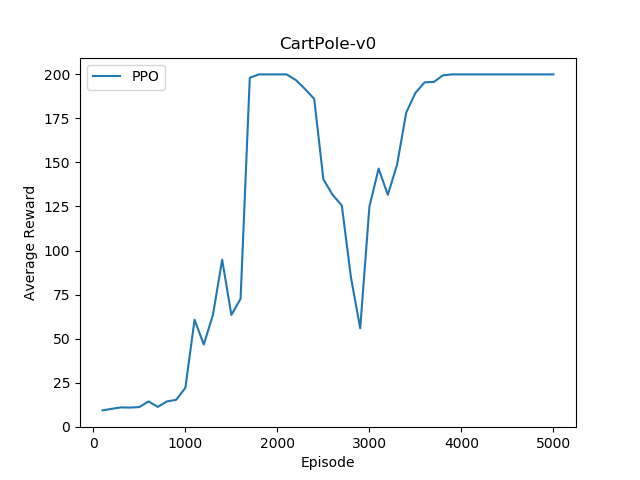
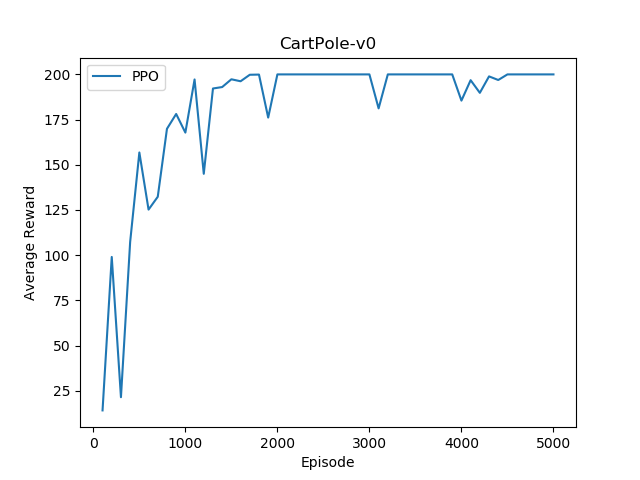
update

diff --git a/MAA2C.py b/MAA2C.py
@@ -5,42 +5,61 @@ from torch.optim import Adam, RMSprop
 
 import numpy as np
 
-from A2C import A2C
+from common.Agent import Agent
 from common.Model import ActorNetwork, CriticNetwork
 from common.utils import entropy, index_to_one_hot, to_tensor_var
 
 
-class MAA2C(A2C):
+class MAA2C(Agent):
     """
     An multi-agent learned with Advantage Actor-Critic
     - Actor takes its local observations as input
     - agent interact with environment to collect experience
     - agent training with experience to update policy
 
+    Parameters
     - training_strategy:
         - cocurrent
             - each agent learns its own individual policy which is independent
             - multiple policies are optimized simultaneously
-        - centralized
-            - centralized training of decentralized actors
-            - centralized critic takes both state and action from all agents as input
-            - each actor has its own critic for estimating the value function, which allows
-                each actor has different reward structure, e.g., cooperative, competitive,
-                mixed cooperative-competitive
+        - centralized (see MADDPG in [1] for details)
+            - centralized training and decentralized execution
+            - decentralized actor map it's local observations to action using individual policy
+            - centralized critic takes both state and action from all agents as input, each actor
+                has its own critic for estimating the value function, which allows each actor has
+                different reward structure, e.g., cooperative, competitive, mixed task
+    - actor_parameter_sharing:
+        - True: all actors share a single policy which enables parameters and experiences sharing,
+            this is mostly useful where the agents are homogeneous. Please see Sec. 4.3 in [2] and
+            Sec. 4.1 & 4.2 in [3] for details.
+        - False: each actor use independent policy
+    - critic_parameter_sharing:
+        - True: all actors share a single critic which enables parameters and experiences sharing,
+            this is mostly useful where the agents are homogeneous and reward sharing holds. Please
+            see Sec. 4.1 in [3] for details.
+        - False: each actor use independent critic (though each critic can take other agents actions
+            as input, see MADDPG in [1] for details)
+
+    Reference:
+    [1] Multi-Agent Actor-Critic for Mixed Cooperative-Competitive Environments
+    [2] Cooperative Multi-Agent Control Using Deep Reinforcement Learning
+    [3] Parameter Sharing Deep Deterministic Policy Gradient for Cooperative Multi-agent Reinforcement Learning
+
     """
     def __init__(self, env, n_agents, state_dim, action_dim,
                  memory_capacity=10000, max_steps=None,
                  roll_out_n_steps=10,
                  reward_gamma=0.99, reward_scale=1., done_penalty=None,
                  actor_hidden_size=32, critic_hidden_size=32,
-                 actor_output_act=nn.functional.softmax, critic_loss="mse",
+                 actor_output_act=nn.functional.log_softmax, critic_loss="mse",
                  actor_lr=0.001, critic_lr=0.001,
                  optimizer_type="rmsprop", entropy_reg=0.01,
                  max_grad_norm=0.5, batch_size=100, episodes_before_train=100,
                  epsilon_start=0.9, epsilon_end=0.01, epsilon_decay=200,
-                 use_cuda=True, training_strategy="cocurrent"):
+                 use_cuda=True, training_strategy="cocurrent",
+                 actor_parameter_sharing=False, critic_parameter_sharing=False):
         super(MAA2C, self).__init__(env, state_dim, action_dim,
-                 memory_capacity, max_steps, roll_out_n_steps,
+                 memory_capacity, max_steps,
                  reward_gamma, reward_scale, done_penalty,
                  actor_hidden_size, critic_hidden_size,
                  actor_output_act, critic_loss,
@@ -53,7 +72,10 @@ class MAA2C(A2C):
         assert training_strategy in ["cocurrent", "centralized"]
 
         self.n_agents = n_agents
+        self.roll_out_n_steps = roll_out_n_steps
         self.training_strategy = training_strategy
+        self.actor_parameter_sharing = actor_parameter_sharing
+        self.critic_parameter_sharing = critic_parameter_sharing
 
         self.actors = [ActorNetwork(self.state_dim, self.actor_hidden_size, self.action_dim, self.actor_output_act)] * self.n_agents
         if self.training_strategy == "cocurrent":
@@ -68,6 +90,17 @@ class MAA2C(A2C):
         elif optimizer_type == "rmsprop":
             self.actor_optimizers = [RMSprop(a.parameters(), lr=self.actor_lr) for a in self.actors]
             self.critic_optimizers = [RMSprop(c.parameters(), lr=self.critic_lr) for c in self.critics]
+
+        # tricky and memory consumed implementation of parameter sharing
+        if self.actor_parameter_sharing:
+            for agent_id in range(1, self.n_agents):
+                self.actors[agent_id] = self.actors[0]
+                self.actor_optimizers[agent_id] = self.actor_optimizers[0]
+        if self.critic_parameter_sharing:
+            for agent_id in range(1, self.n_agents):
+                self.critics[agent_id] = self.critics[0]
+                self.critic_optimizers[agent_id] = self.critic_optimizers[0]
+
         if self.use_cuda:
             for a in self.actors:
                 a.cuda()
@@ -87,15 +120,16 @@ class MAA2C(A2C):
             states.append(self.env_state)
             action = self.exploration_action(self.env_state)
             next_state, reward, done, _ = self.env.step(action)
+            done = done[0]
             actions.append([index_to_one_hot(a, self.action_dim) for a in action])
             rewards.append(reward)
             final_state = next_state
             self.env_state = next_state
-            if done[0]:
+            if done:
                 self.env_state = self.env.reset()
                 break
         # discount reward
-        if done[0]:
+        if done:
             final_r = [0.0] * self.n_agents
             self.n_episodes += 1
             self.episode_done = True
@@ -127,15 +161,15 @@ class MAA2C(A2C):
         for agent_id in range(self.n_agents):
             # update actor network
             self.actor_optimizers[agent_id].zero_grad()
-            softmax_actions = self.actors[agent_id](states_var[:,agent_id,:])
+            action_log_probs = self.actors[agent_id](states_var[:,agent_id,:])
+            entropy_loss = th.mean(entropy(th.exp(action_log_probs)))
+            action_log_probs = th.sum(action_log_probs * actions_var[:,agent_id,:], 1)
             if self.training_strategy == "cocurrent":
-                values = self.critics[agent_id](states_var[:,agent_id,:], actions_var[:,agent_id,:]).detach()
+                values = self.critics[agent_id](states_var[:,agent_id,:], actions_var[:,agent_id,:])
             elif self.training_strategy == "centralized":
-                values = self.critics[agent_id](whole_states_var, whole_actions_var).detach()
-            advantages = rewards_var[:,agent_id,:] - values
-            neg_logloss = - th.sum(softmax_actions * actions_var[:,agent_id,:], 1)
-            pg_loss = th.mean(neg_logloss * advantages)
-            entropy_loss = th.mean(entropy(softmax_actions))
+                values = self.critics[agent_id](whole_states_var, whole_actions_var)
+            advantages = rewards_var[:,agent_id,:] - values.detach()
+            pg_loss = -th.mean(action_log_probs * advantages)
             actor_loss = pg_loss - entropy_loss * self.entropy_reg
             actor_loss.backward()
             if self.max_grad_norm is not None:
@@ -145,10 +179,6 @@ class MAA2C(A2C):
             # update critic network
             self.critic_optimizers[agent_id].zero_grad()
             target_values = rewards_var[:,agent_id,:]
-            if self.training_strategy == "cocurrent":
-                values = self.critics[agent_id](states_var[:,agent_id,:], actions_var[:,agent_id,:])
-            elif self.training_strategy == "centralized":
-                values = self.critics[agent_id](whole_states_var, whole_actions_var)
             if self.critic_loss == "huber":
                 critic_loss = nn.functional.smooth_l1_loss(values, target_values)
             else:
@@ -163,7 +193,7 @@ class MAA2C(A2C):
         state_var = to_tensor_var([state], self.use_cuda)
         softmax_action = np.zeros((self.n_agents, self.action_dim), dtype=np.float64)
         for agent_id in range(self.n_agents):
-            softmax_action_var = self.actors[agent_id](state_var[:,agent_id,:])
+            softmax_action_var = th.exp(self.actors[agent_id](state_var[:,agent_id,:]))
             if self.use_cuda:
                 softmax_action[agent_id] = softmax_action_var.data.cpu().numpy()[0]
             else:

diff --git a/A2C.py b/A2C.py
@@ -75,8 +75,8 @@ class A2C(Agent):
         action_log_probs = self.actor(states_var)
         entropy_loss = th.mean(entropy(th.exp(action_log_probs)))
         action_log_probs = th.sum(action_log_probs * actions_var, 1)
-        values = self.critic(states_var, actions_var).detach()
-        advantages = rewards_var - values
+        values = self.critic(states_var, actions_var)
+        advantages = rewards_var - values.detach()
         pg_loss = -th.mean(action_log_probs * advantages)
         actor_loss = pg_loss - entropy_loss * self.entropy_reg
         actor_loss.backward()
@@ -87,7 +87,6 @@ class A2C(Agent):
         # update critic network
         self.critic_optimizer.zero_grad()
         target_values = rewards_var
-        values = self.critic(states_var, actions_var)
         if self.critic_loss == "huber":
             critic_loss = nn.functional.smooth_l1_loss(values, target_values)
         else:
@@ -107,7 +106,7 @@ class A2C(Agent):
             softmax_action = softmax_action_var.data.numpy()[0]
         return softmax_action
 
-    # choice an action based on state with random noise added for exploration in training
+    # choose an action based on state with random noise added for exploration in training
     def exploration_action(self, state):
         softmax_action = self._softmax_action(state)
         epsilon = self.epsilon_end + (self.epsilon_start - self.epsilon_end) * \
@@ -118,7 +117,7 @@ class A2C(Agent):
             action = np.argmax(softmax_action)
         return action
 
-    # choice an action based on state for execution
+    # choose an action based on state for execution
     def action(self, state):
         softmax_action = self._softmax_action(state)
         action = np.argmax(softmax_action)
@@ -127,7 +126,7 @@ class A2C(Agent):
     # evaluate value for a state-action pair
     def value(self, state, action):
         state_var = to_tensor_var([state], self.use_cuda)
-        action = index_to_one_hot([action], self.action_dim).flatten()
+        action = index_to_one_hot(action, self.action_dim)
         action_var = to_tensor_var([action], self.use_cuda)
         value_var = self.critic(state_var, action_var)
         if self.use_cuda:

diff --git a/common/Agent.py b/common/Agent.py
@@ -16,9 +16,9 @@ class Agent(object):
         - _discount_reward: discount roll out rewards
     - train: train on a sample batch
         - _soft_update_target: soft update the target network
-    - exploration_action: choice an action based on state with random noise
+    - exploration_action: choose an action based on state with random noise
                             added for exploration in training
-    - action: choice an action based on state for execution
+    - action: choose an action based on state for execution
     - value: evaluate value for a state-action pair
     - evaluation: evaluation a learned agent
     """
@@ -146,11 +146,11 @@ class Agent(object):
     def train(self):
         pass
 
-    # choice an action based on state with random noise added for exploration in training
+    # choose an action based on state with random noise added for exploration in training
     def exploration_action(self, state):
         pass
 
-    # choice an action based on state for execution
+    # choose an action based on state for execution
     def action(self, state):
         pass
 
@@ -168,11 +168,13 @@ class Agent(object):
             state = env.reset()
             action = self.action(state)
             state, reward, done, info = env.step(action)
+            done = done[0] if isinstance(done, list) else done
             rewards_i.append(reward)
             infos_i.append(info)
             while not done:
                 action = self.action(state)
                 state, reward, done, info = env.step(action)
+                done = done[0] if isinstance(done, list) else done
                 rewards_i.append(reward)
                 infos_i.append(info)
             rewards.append(rewards_i)

diff --git a/PPO.py b/PPO.py
@@ -131,7 +131,7 @@ class PPO(Agent):
             softmax_action = softmax_action_var.data.numpy()[0]
         return softmax_action
 
-    # choice an action based on state with random noise added for exploration in training
+    # choose an action based on state with random noise added for exploration in training
     def exploration_action(self, state):
         softmax_action = self._softmax_action(state)
         epsilon = self.epsilon_end + (self.epsilon_start - self.epsilon_end) * \
@@ -142,7 +142,7 @@ class PPO(Agent):
             action = np.argmax(softmax_action)
         return action
 
-    # choice an action based on state for execution
+    # choose an action based on state for execution
     def action(self, state):
         softmax_action = self._softmax_action(state)
         action = np.argmax(softmax_action)
@@ -151,7 +151,7 @@ class PPO(Agent):
     # evaluate value for a state-action pair
     def value(self, state, action):
         state_var = to_tensor_var([state], self.use_cuda)
-        action = index_to_one_hot([action], self.action_dim).flatten()
+        action = index_to_one_hot(action, self.action_dim)
         action_var = to_tensor_var([action], self.use_cuda)
         value_var = self.critic(state_var, action_var)
         if self.use_cuda:

diff --git a/DQN.py b/DQN.py
@@ -83,7 +83,7 @@ class DQN(Agent):
             nn.utils.clip_grad_norm(self.actor.parameters(), self.max_grad_norm)
         self.actor_optimizer.step()
 
-    # choice an action based on state with random noise added for exploration in training
+    # choose an action based on state with random noise added for exploration in training
     def exploration_action(self, state):
         epsilon = self.epsilon_end + (self.epsilon_start - self.epsilon_end) * \
                                   np.exp(-1. * self.n_steps / self.epsilon_decay)
@@ -93,7 +93,7 @@ class DQN(Agent):
             action = self.action(state)
         return action
 
-    # choice an action based on state for execution
+    # choose an action based on state for execution
     def action(self, state):
         state_var = to_tensor_var([state], self.use_cuda)
         state_action_value_var = self.actor(state_var)

diff --git a/DDPG.py b/DDPG.py
@@ -114,7 +114,7 @@ class DDPG(Agent):
             super(DDPG, self)._soft_update_target(self.critic_target, self.critic)
             super(DDPG, self)._soft_update_target(self.actor_target, self.actor)
 
-    # choice an action based on state with random noise added for exploration in training
+    # choose an action based on state with random noise added for exploration in training
     def exploration_action(self, state):
         action = self.action(state)
         epsilon = self.epsilon_end + (self.epsilon_start - self.epsilon_end) * \
@@ -124,7 +124,7 @@ class DDPG(Agent):
         action += noise
         return action
 
-    # choice an action based on state for execution
+    # choose an action based on state for execution
     def action(self, state):
         action_var = self.actor(to_tensor_var([state], self.use_cuda))
         if self.use_cuda:

diff --git a/common/utils.py b/common/utils.py
@@ -12,9 +12,17 @@ def entropy(p):
     return -th.sum(p * th.log(p), 1)
 
 
+def kl_log_probs(log_p1, log_p2):
+    return -th.sum(th.exp(log_p1)*(log_p2 - log_p1), 1)
+
+
 def index_to_one_hot(index, dim):
-    one_hot = np.zeros((len(index), dim))
-    one_hot[np.arange(len(index)), index] = 1.
+    if isinstance(index, np.int) or isinstance(index, np.int64):
+        one_hot = np.zeros(dim)
+        one_hot[index] = 1.
+    else:
+        one_hot = np.zeros((len(index), dim))
+        one_hot[np.arange(len(index)), index] = 1.
     return one_hot
 
 

diff --git a/run_ddpg.py b/run_ddpg.py
@@ -74,6 +74,7 @@ def run(env_id="Pendulum-v0"):
 
     plt.figure()
     plt.plot(episodes, eval_rewards)
+    plt.title("%s" % env_id)
     plt.xlabel("Episode")
     plt.ylabel("Average Reward")
     plt.legend(["DDPG"])

diff --git a/run_ppo.py b/run_ppo.py
@@ -9,7 +9,7 @@ import matplotlib.pyplot as plt
 
 
 MAX_EPISODES = 5000
-EPISODES_BEFORE_TRAIN = 100
+EPISODES_BEFORE_TRAIN = 0
 EVAL_EPISODES = 10
 EVAL_INTERVAL = 100
 

diff --git a/README.md b/README.md
@@ -11,8 +11,8 @@ This project includes PyTorch implementations of various Deep Reinforcement Lear
 It is written in a modular way to allow for sharing code between different algorithms. In specific, each algorithm is represented as a learning agent with a unified interface including the following components:
 - [ ] interact: interact with the environment to collect experience. Taking one step forward and n steps forward are both supported (see `_take_one_step_` and `_take_n_steps`, respectively)
 - [ ] train: train on a sample batch
-- [ ] exploration_action: choice an action based on state with random noise added for exploration in training
-- [ ] action: choice an action based on state for execution
+- [ ] exploration_action: choose an action based on state with random noise added for exploration in training
+- [ ] action: choose an action based on state for execution
 - [ ] value: evaluate value for a state-action pair
 - [ ] evaluation: evaluation the learned agent
 
@@ -28,7 +28,6 @@ To train a model:
 
 ```
 $ python run_a2c.py
-
 ```
 
 ## Results
@@ -61,6 +60,9 @@ It's extremely difficult to reproduce results for Reinforcement Learning algorit
 - [ ] Parameter noise
 
 # Acknowledgments
-This project get inspirations from the following projects:
+This project gets inspirations from the following projects:
 - [ ] Ilya Kostrikov's [pytorch-a2c-ppo-acktr](https://github.com/ChenglongChen/pytorch-a2c-ppo-acktr) (kfac optimizer is taken from here)
 - [ ] OpenAI's [baselines](https://github.com/openai/baselines)
+
+# License
+MIT
